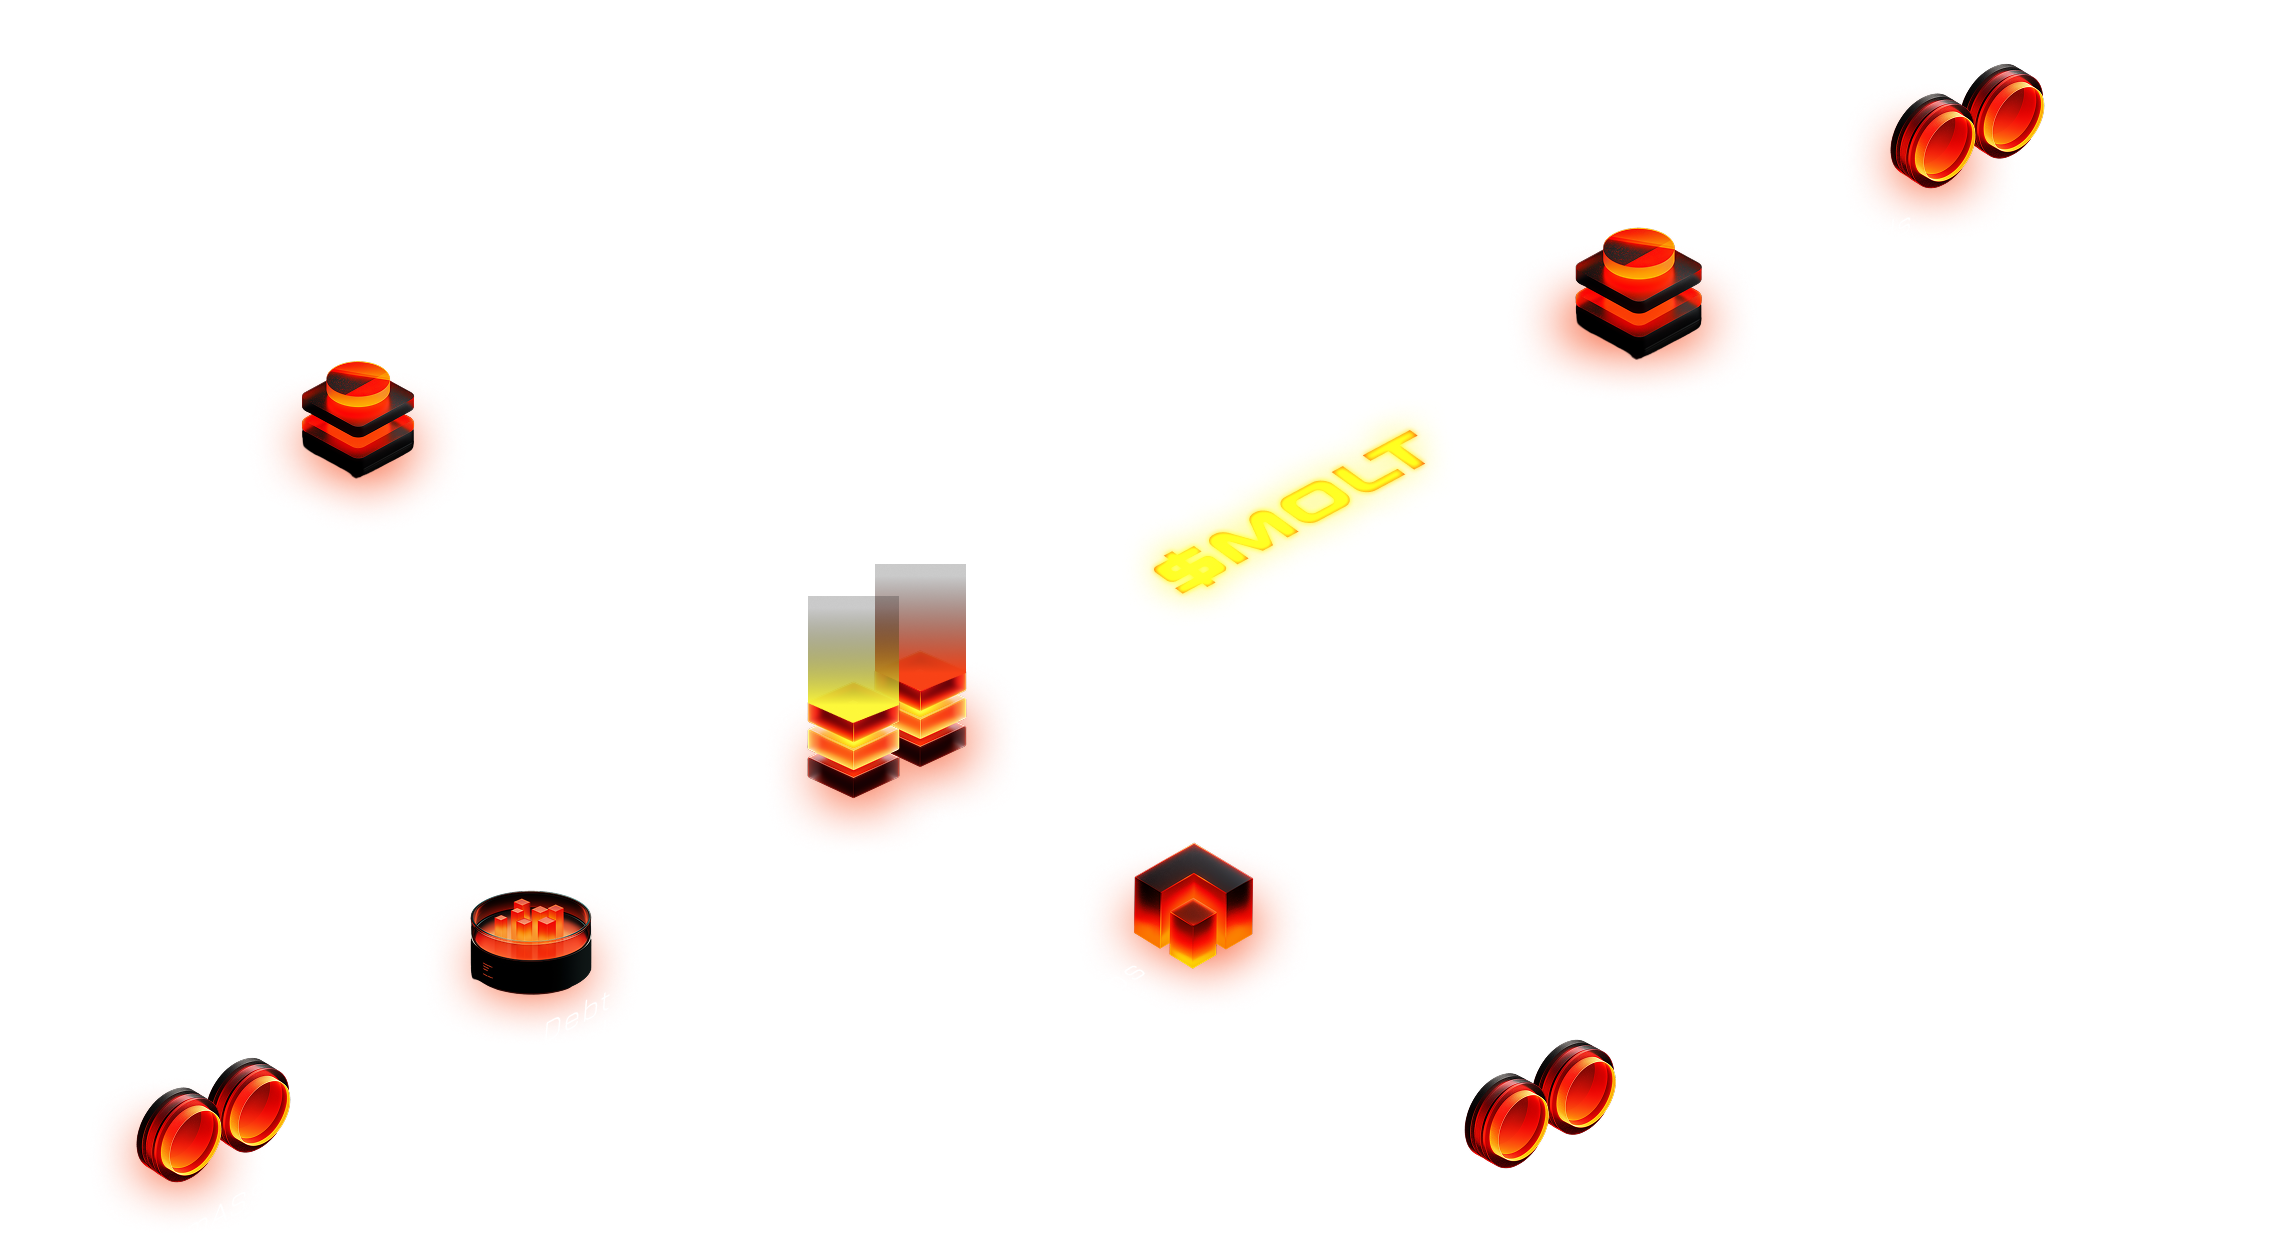
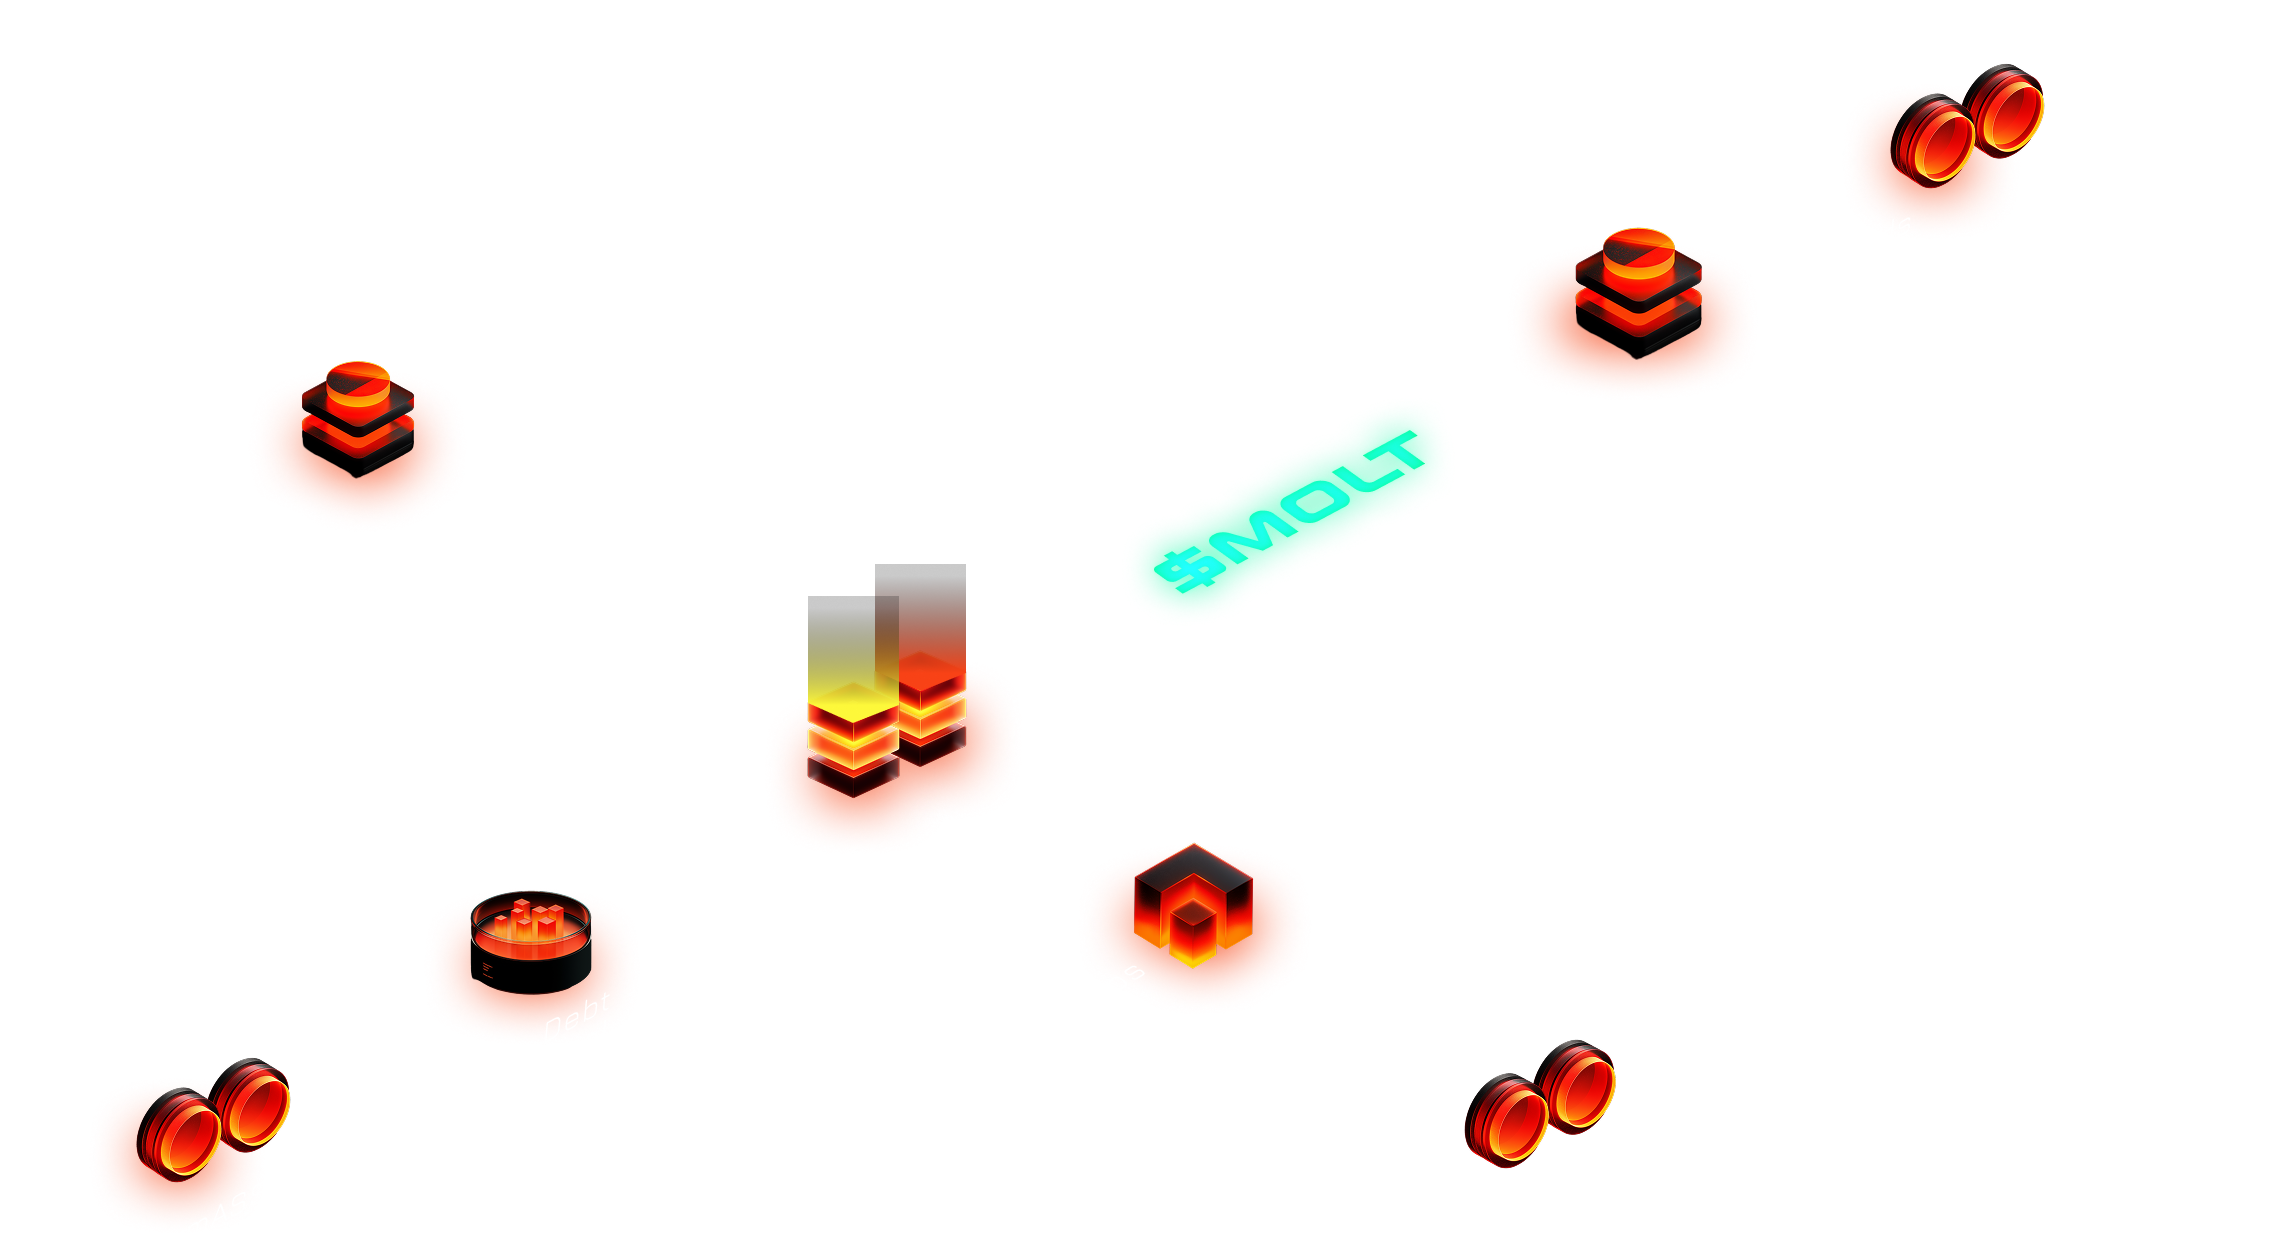
ui changes

Changed region(s): [[0.4987, 0.3424, 0.6234, 0.498]]

diff --git a/src/app/home/aboutMolten.jsx b/src/app/home/aboutMolten.jsx
@@ -9,7 +9,7 @@ const AboutMoltenX = () => {
     <section className="pt-[100px] pb-[50px] 3xl:pt-[140px] 3xl:pb-[70px]">
       <SiteContainer className="flex flex-col item-center">
         <h2 className="text-title xl:text-title-xl 2xl:text-title-2xl 3xl:text-title-3xl text-center">
-          About <span className="text-yellow">MoltenX</span>
+          <span className="bg-[linear-gradient(180deg,_#FFF_58.55%,_#2BF5AB_128.95%)] bg-clip-text text-transparent">About</span> <span className="text-green">MoltenX</span>
         </h2>
         <p className="mb-11 xl:mb-[68px] mt-3.5 text-description xl:text-description-xl 2xl:text-description-2xl 3xl:text-description-3xl text-description-gray xl:max-w-[920px] 3xl:max-w-[1080px] text-center mx-auto">
           MoltenX transforms synthetic asset trading by harnessing the dynamic potential of precious and base metals within the flexibility of DeFi.  Effortlessly trade synthetic metal assets using crypto collateral on a secure, Web3-native platform, unlocking unmatched liquidity and opportunities in decentralized markets.
@@ -50,7 +50,7 @@ const AboutMoltenX = () => {
                   alt={item.label}
                 />
 
-                <div className="text-product-label 2xl:text-product-label-2xl 3xl:text-product-label-3xl text-yellow mb-2.5 mt-10">{item.label}</div>
+                <div className="text-product-label 2xl:text-product-label-2xl 3xl:text-product-label-3xl text-green mb-2.5 mt-10">{item.label}</div>
                 <div className="text-description-gray text-product-description 2xl:text-product-description-2xl 3xl:text-product-description-3xl text-center">{item.description}</div>
               </div>
             ))

diff --git a/tailwind.config.js b/tailwind.config.js
@@ -21,12 +21,12 @@ module.exports = {
   		},
       colors: {
         'button-orange': '#8F3C00',
-        'yellow': '#FDF83A',
+        'green': '#2BF5AB',
         'description-gray': 'rgba(255, 255, 255, 0.60)',
         'copyright-gray': 'rgba(255, 255, 255, 0.49)'
       },
       backgroundColor: {
-        'button-bg': '#FFF471',
+        'button-bg': '#82FFD1',
       },
       backgroundImage: {
         'carousel-before': "linear-gradient(95deg, #000 40.44%, rgba(0, 0, 0, 0.00) 102.52%)",
@@ -94,8 +94,8 @@ module.exports = {
         'copyright-3xl': ["14px", { letterSpacing: '-0.42px' }],
       },
       boxShadow: {
-        'button-shadow': "0px 12px 20px 0px rgba(0, 0, 0, 0.30), 0px 4px 30px 0px rgba(225, 9, 1, 0.95) inset",
-        'button-hover': '0px 12px 20px 0px rgba(0, 0, 0, 0.30), 0px 0 16px 0px rgba(225, 9, 1, 0.95) inset'
+        'button-shadow': "0 12px 20px 0 rgba(0, 0, 0, 0.30), 0 4px 30px 0 rgba(0, 72, 45, 0.95) inset",
+        'button-hover': '0px 12px 20px 0px rgba(0, 0, 0, 0.30), 0px 0 16px 0px rgba(0, 72, 45, 0.95) inset'
       }
     },
   },

diff --git a/src/app/home/tokenEconomy.jsx b/src/app/home/tokenEconomy.jsx
@@ -4,10 +4,10 @@ import SiteContainer from "../components/sitecontainer";
 const TokenEconomy = () => {
 
   return(
-    <section className="py-[50px] 3xl:py-[140px]">
+    <section className="py-[50px] xl:py-[140px]">
       <SiteContainer className="flex flex-col item-center">
         <h2 className="text-title xl:text-title-xl 2xl:text-title-2xl 3xl:text-title-3xl text-center">
-          <span className="text-yellow">$MOLT</span> Token Economy
+          <span className="text-green">$MOLT</span> <span className="bg-[linear-gradient(180deg,_#FFF_58.55%,_#2BF5AB_128.95%)] bg-clip-text text-transparent">Token Economy</span>
         </h2>
         <p className="mb-[68px] mt-3.5 text-description xl:text-description-xl 2xl:text-description-2xl 3xl:text-description-3xl text-description-gray max-w-[618px] text-center mx-auto">
           $MOLT’s community friendly tokenomics exclude insiders, VCs, and whales, ensuring community-driven control and equitable opportunities for all.

diff --git a/src/app/components/button.jsx b/src/app/components/button.jsx
@@ -2,7 +2,7 @@ const Button = ({ className,  onClick, props, children }) => {
 
   return(
     <button 
-      className={`rounded-md 2xl:rounded-lg px-3 py-2.5 lg:px-4 lg:py-2.5 2xl:px-5 2xl:py-3 3xl:px-6 3xl:py-4 bg-button-bg shadow-button-shadow hover:shadow-button-hover duration-150 text-button xl:text-button-xl 2xl:text-button-2xl 3xl:text-button-3xl text-button-orange ${className}`}
+      className={`rounded-md 2xl:rounded-lg px-3 py-2.5 lg:px-4 lg:py-2.5 2xl:px-5 2xl:py-3 3xl:px-6 3xl:py-4 bg-button-bg shadow-button-shadow hover:shadow-button-hover duration-150 text-button xl:text-button-xl 2xl:text-button-2xl 3xl:text-button-3xl text-black ${className}`}
       onClick={onClick}
       {...props}
     >

diff --git a/src/app/home/topSection.jsx b/src/app/home/topSection.jsx
@@ -32,7 +32,7 @@ const TopSection = () => {
         </div>
 
         <div>
-          <h1 className="text-top-title xl:text-top-title-xl 2xl:text-top-title-2xl 3xl:text-top-title-3xl text-white">DeFi Powered <br /> <span className="text-yellow">Metal Markets</span></h1>
+          <h1 className="text-top-title xl:text-top-title-xl 2xl:text-top-title-2xl 3xl:text-top-title-3xl text-white">DeFi Powered <br /> <span className="text-green">Metal Markets</span></h1>
 
           <div className="text-built-label xl:text-built-label-xl 2xl:text-built-label-2xl 3xl:text-built-label-3xl bg-[linear-gradient(180deg,_#FFF_58.55%,_#8D3100_128.95%)] bg-clip-text text-transparent mt-[54px] mb-4">Built on</div>
 
